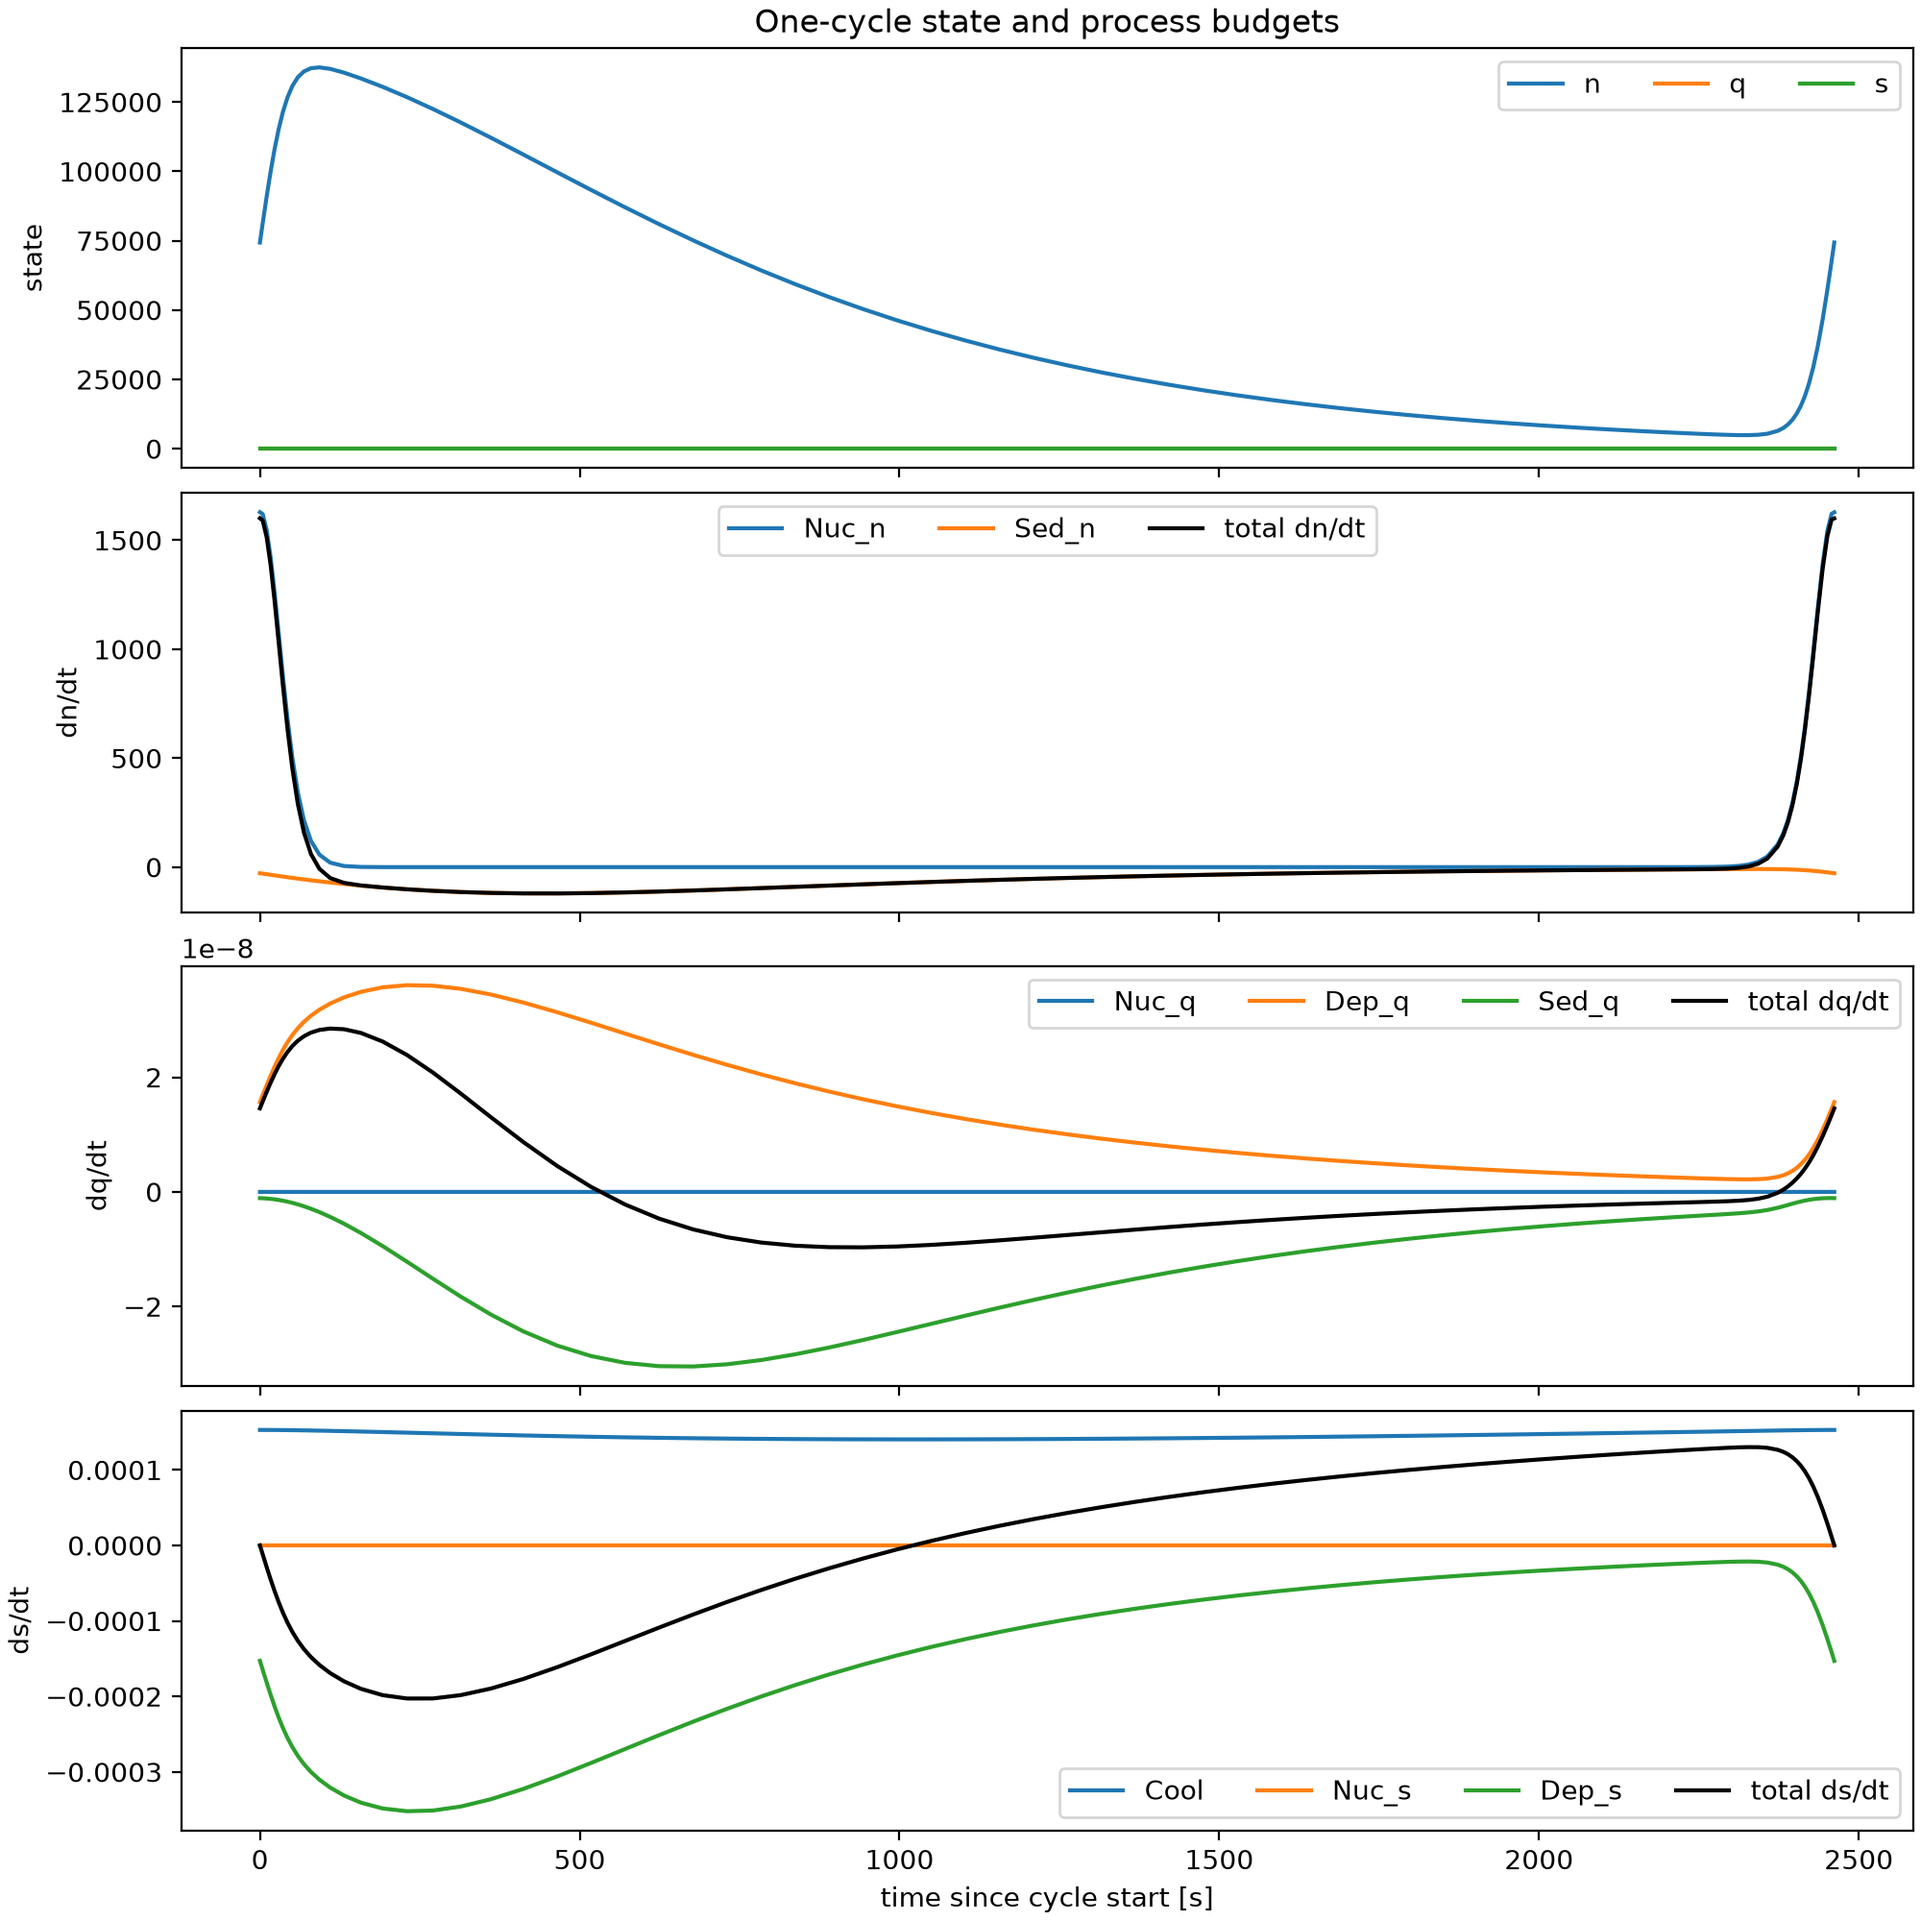
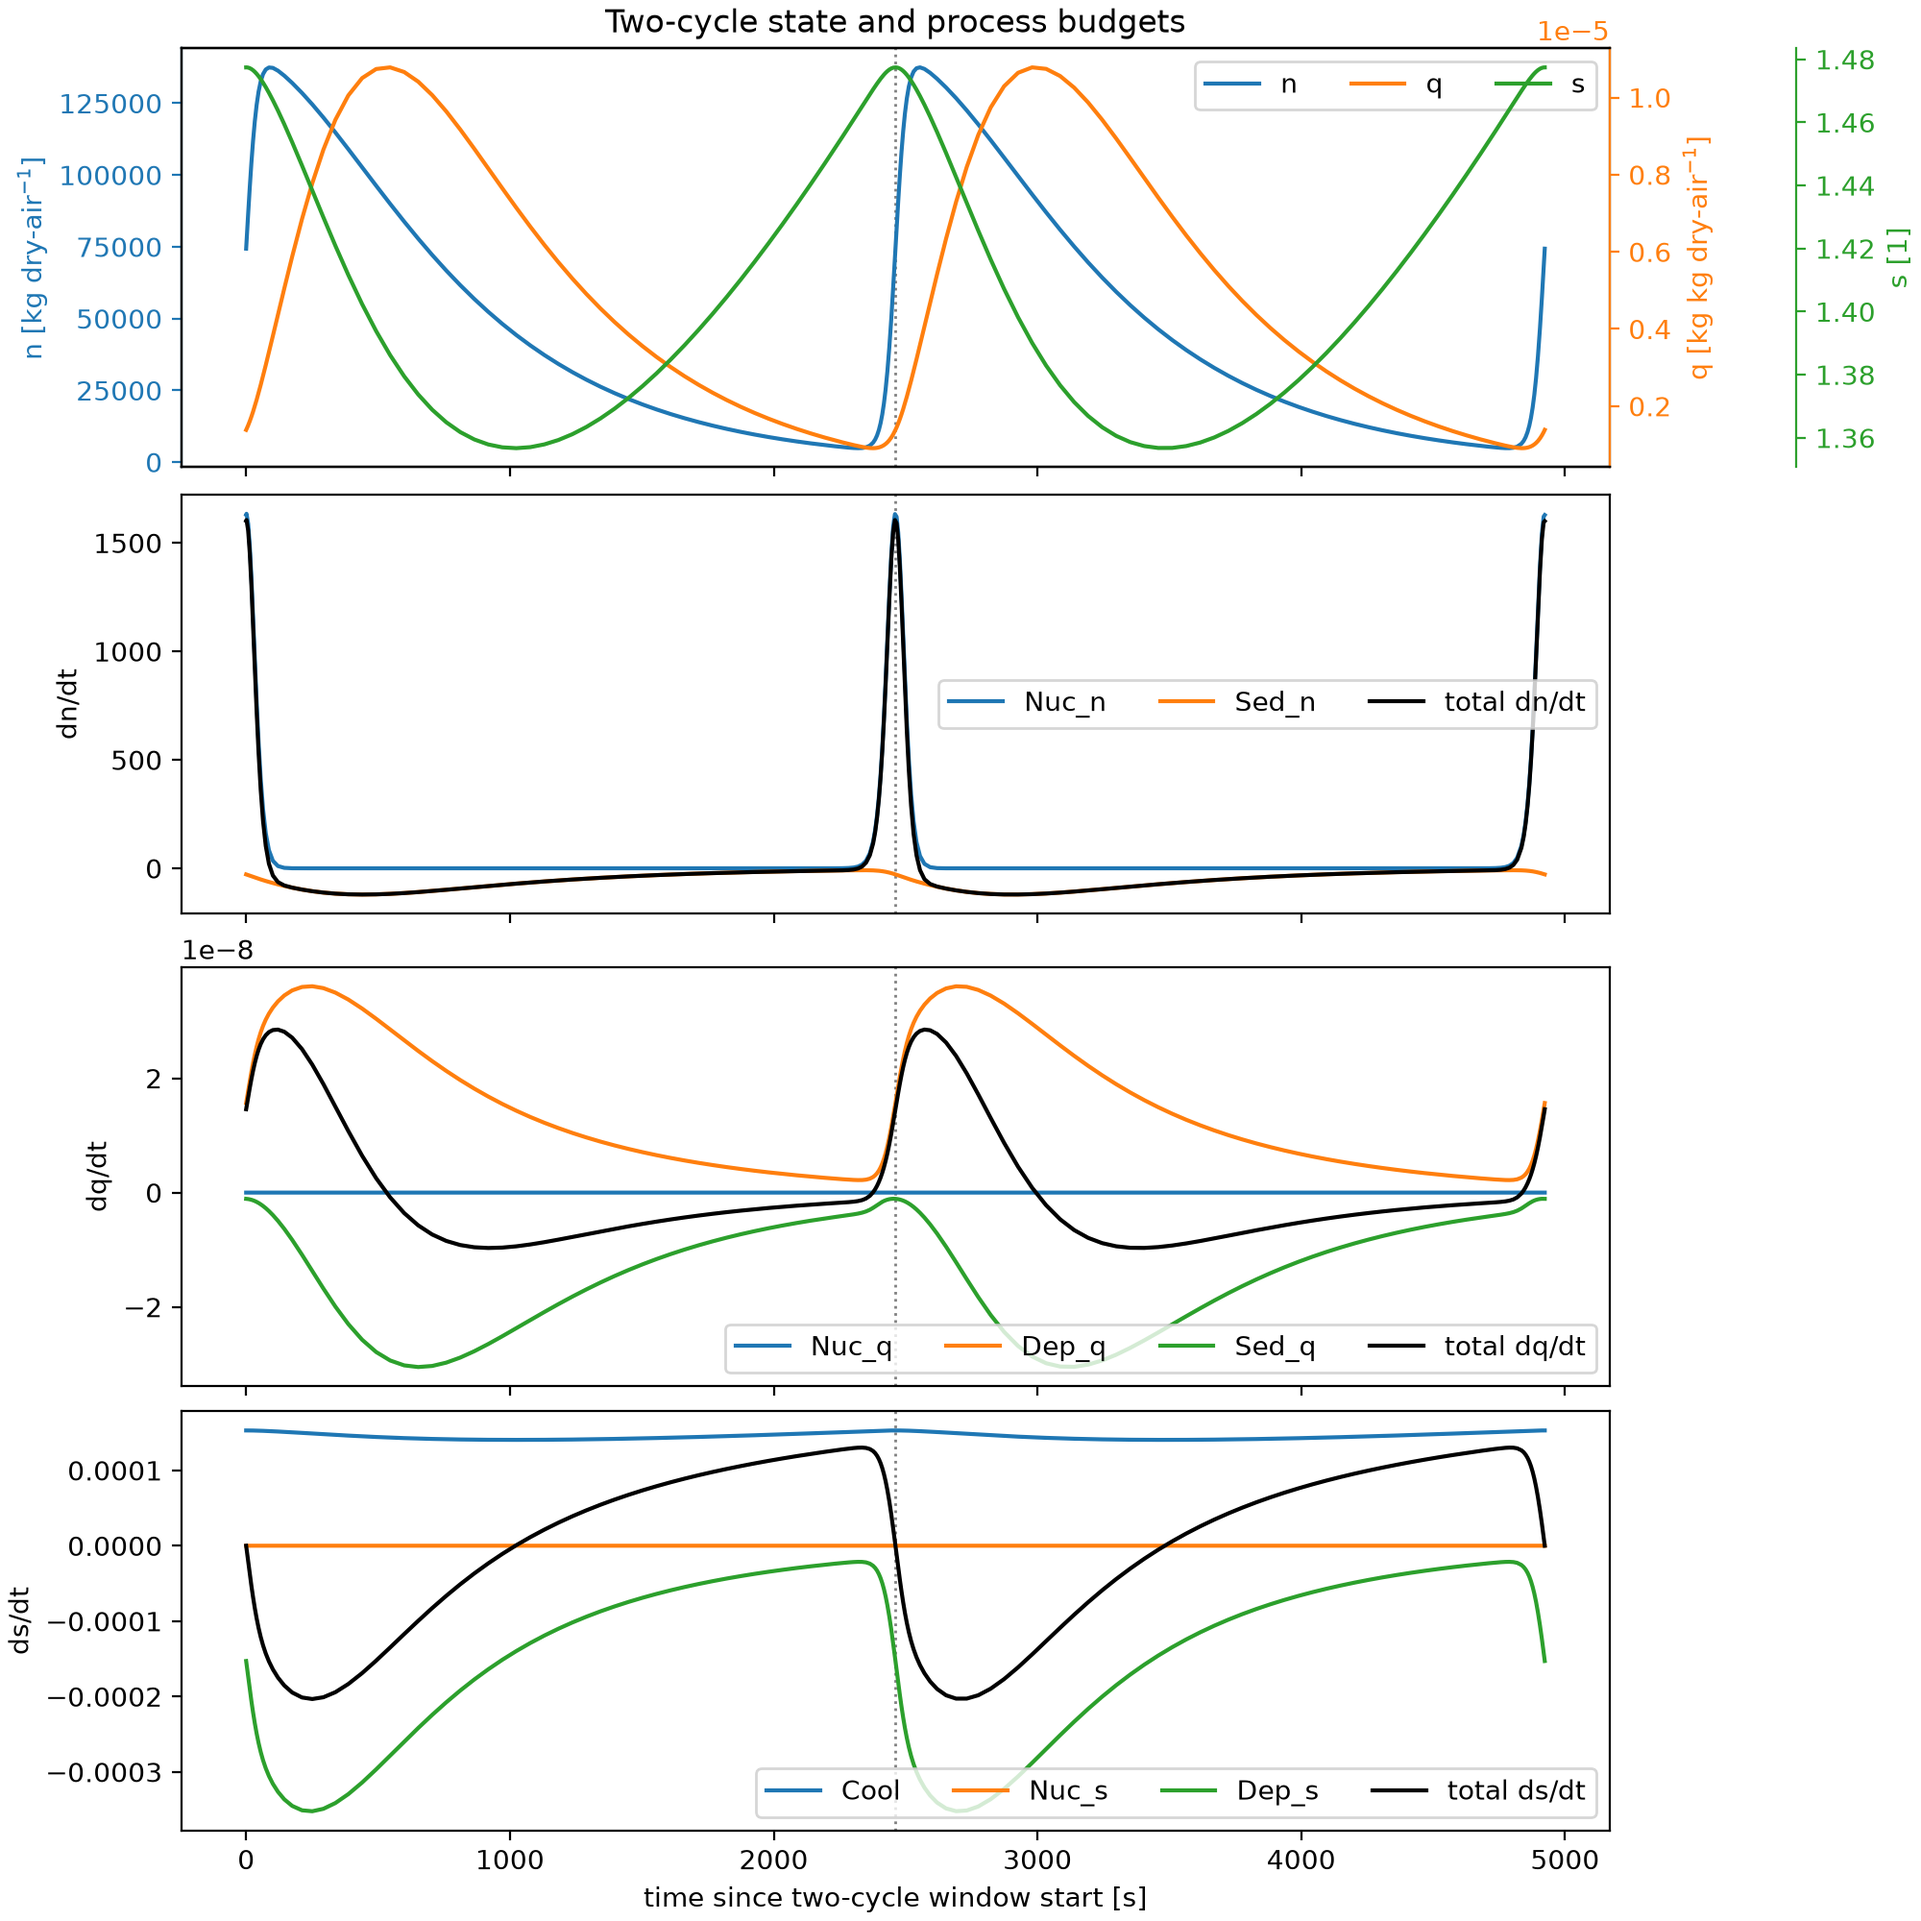
fix: improve Episode 007 cycle budget plot (TASK-039, TASK-040)
Pi-Model: openai-codex/gpt-5.6-sol

diff --git a/tests/test_episode7_diagnostics_notebook.py b/tests/test_episode7_diagnostics_notebook.py
@@ -28,9 +28,22 @@ def test_episode7_diagnostics_notebook_records_the_required_solver_and_process_c
         "'Nuc_n', 'Sed_n'",
         "'Nuc_q', 'Dep_q', 'Sed_q'",
         "'Cool', 'Nuc_s', 'Dep_s'",
+        "representative_cycles = cycle_extractions[reference_name].cycles[-2:]",
+        "cycle_boundary_time = representative_cycles[0].end.time - cycle_time[0]",
+        "'Two-cycle state and process budgets'",
+        "axis.axvline(cycle_boundary_time",
+        "state_axes = [axes[0], axes[0].twinx(), axes[0].twinx()]",
+        "state_axes[2].spines['right'].set_position(('outward', 70))",
+        "'n [kg dry-air$^{-1}$]'",
+        "'q [kg kg dry-air$^{-1}$]'",
+        "'s [1]'",
         "float_format='%.17g'",
     ):
         assert required_source in source
+
+    assert source.count(".twinx()") == 2
+    assert "axis.set_ylabel(label, color=color)" in source
+    assert "axis.tick_params(axis='y', colors=color)" in source
 
 
 def test_episode7_reference_outputs_satisfy_the_browser_validation_contract():
